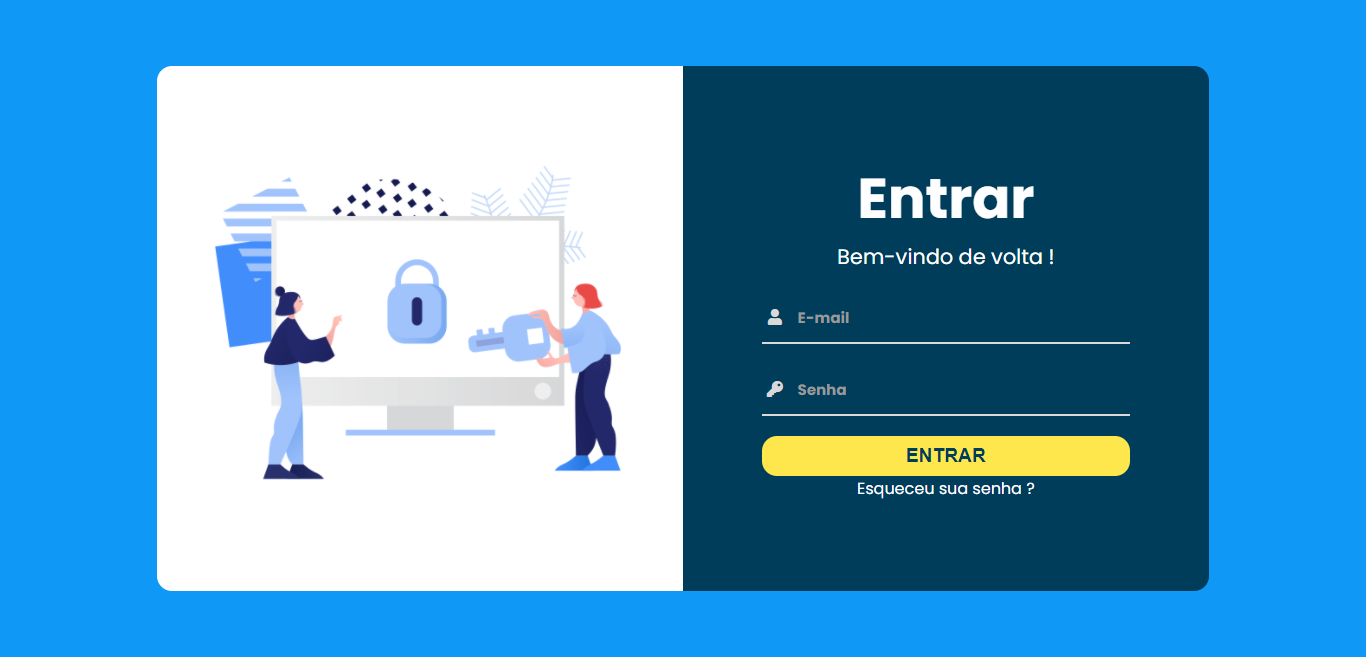
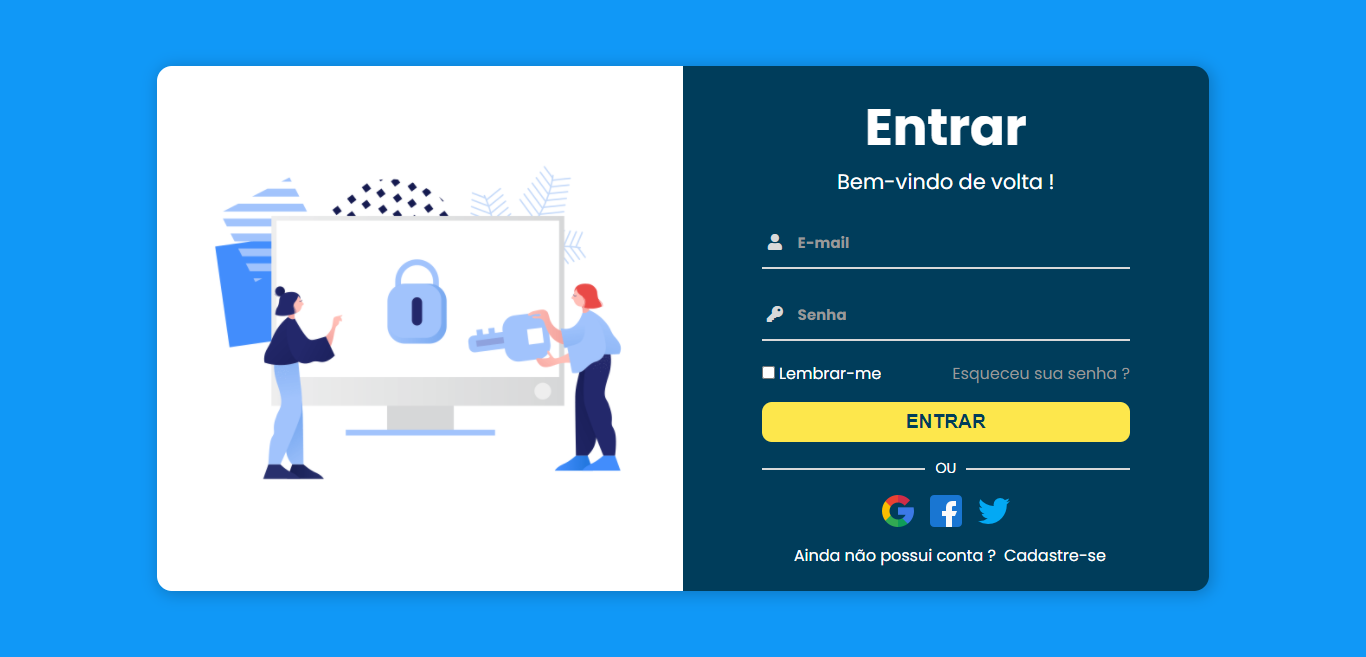
Layout adjustments

diff --git a/login.html b/login.html
@@ -12,6 +12,9 @@
     <!-- Google Fonts Poppins -->
     <link href="https://fonts.googleapis.com/css2?family=Poppins:wght@400;600;700&display=swap" rel="stylesheet">
 
+    <!-- Favicon -->
+    <link rel="icon" href="img/css-3.png">
+
     <!-- Custom styles path -->
     <link rel="stylesheet" href="css/style.css">
 </head>
@@ -20,7 +23,7 @@
     <div class="main-container">
         <div class="content">
             <div class="img-container">
-                <img src="img/login.png" alt="Login">
+                <img class="image" src="img/login.png" alt="Login">
             </div>
             <div class="login-container">
                 <form action="login.html">
@@ -44,8 +47,28 @@
                             <input class="input" type="password">
                         </div>
                     </div>
+                    <div class="forgot">
+                        <div class="remember">
+                            <input type="checkbox">
+                            <label>Lembrar-me</label>
+                        </div>
+                        <a href="#">Esqueceu sua senha ?</a>
+                    </div>
                     <button class="btn" type="button">Entrar</button>
-                    <a href="#">Esqueceu sua senha ?</a>
+                    <div class="others">
+                        <hr>
+                        <p>OU</p>
+                        <hr>
+                    </div>
+                    <div class="social">
+                        <img src="img/google.png">
+                        <img src="img/facebook.png">
+                        <img src="img/twitter.png">
+                    </div>
+                    <div class="account">
+                        <p>Ainda não possui conta ?</p>
+                        <a href="#">Cadastre-se</a>
+                    </div>
                 </form>
             </div>
         </div>

diff --git a/css/style.css b/css/style.css
@@ -12,6 +12,11 @@ img {
   width: 100%;
 }
 
+.img-container .image {
+  position: relative;
+  animation: 0.8s zoom ease-in-out;
+}
+
 .main-container {
   width: 100%;
   height: 100vh;
@@ -27,6 +32,7 @@ img {
   grid-template-columns: repeat(2, 1fr);
   overflow-x: hidden;
   border-radius: 15px;
+  box-shadow: 2px 2px 15px 2px rgba(0, 0, 0, 0.2);
 }
 
 .img-container {
@@ -53,7 +59,7 @@ form {
 
 form h1 {
   color: #fff;
-  font-size: 3.5rem;
+  font-size: 3.2rem;
   text-align: center;
 }
 
@@ -158,7 +164,8 @@ form p {
 .btn {
   width: 100%;
   height: 40px;
-  border-radius: 15px;
+  margin: 0 0 1rem;
+  border-radius: 10px;
   border: none;
   font-size: 1.2rem;
   font-weight: 600;
@@ -178,6 +185,80 @@ form p {
 form a {
   display: flex;
   justify-content: center;
-  color: #fff;
+  color: #999;
+  font-size: 1rem;
   text-decoration: none;
+}
+
+form a:hover {
+  color: #fde74c;
+}
+
+.forgot {
+  display: flex;
+  align-items: center;
+  align-content: center;
+  justify-content: space-between;
+  padding: 0 0 1rem;
+}
+
+.remember label {
+  color: #fff;
+}
+
+.others {
+  display: flex;
+  align-items: center;
+  justify-content: center;
+}
+
+.others hr {
+  max-width: 100%;
+  width: 100%;
+  border: 1px solid #d9d9d9;
+}
+
+.others p {
+  font-size: 0.9rem;
+  padding: 0 10px;
+}
+
+.social {
+  display: flex;
+  justify-content: center;
+  align-items: center;
+  align-content: center;
+}
+
+.social img {
+  margin: 1rem 0.5rem;
+  width: 32px;
+  vertical-align: middle;
+  cursor: pointer;
+}
+
+.account {
+  display: flex;
+  justify-content: center;
+  align-items: center;
+  flex-direction: row;
+  flex-wrap: wrap;
+}
+
+.account p {
+  padding: 0 0.5rem;
+  font-size: 1rem;
+}
+
+.account a {
+  color: #fff;
+}
+
+@keyframes zoom {
+  from {
+    width: 50%;
+  }
+  to {
+    width: 100%;
+  }
 }
